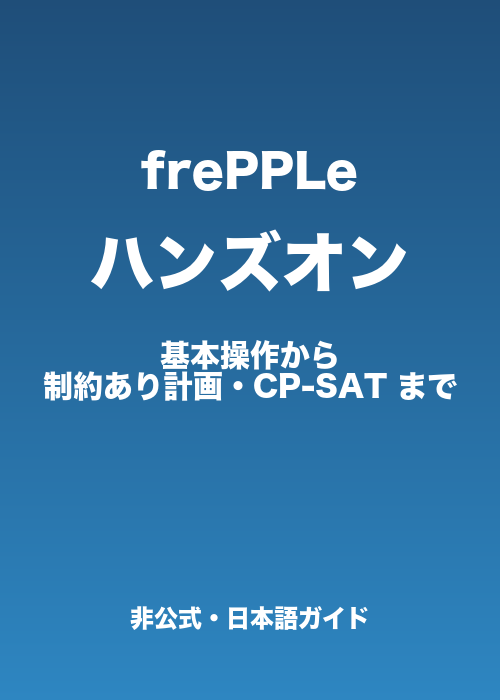
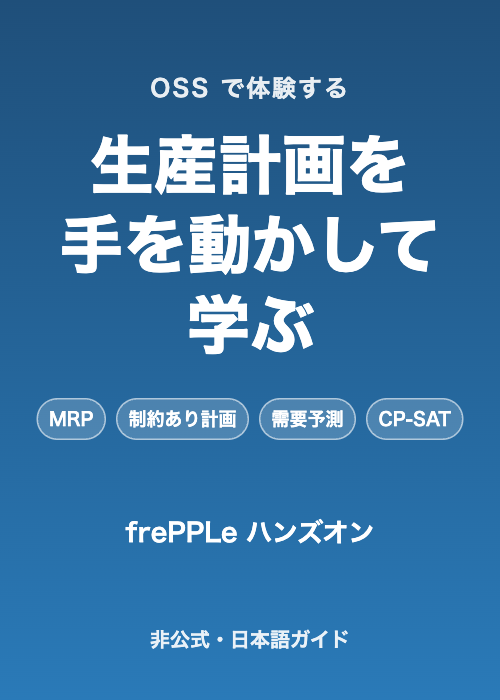
improve discoverability: retitle book, new cover, intro summary box, small chapter fixes
- config.yaml: lead title/summary with the problem domain, update topics
- cover.png: new cover matching the title
- 01: add a 3-line summary box
- 05: align diagram with table, replace dangling 4-chapter reference
- 07: point to the ch6 result instead of stale prediction
- 08: normalize parentheses to full-width
- 15: drop unused glossary term

diff --git a/books/frepple-tutorial-ja/05-build-model.md b/books/frepple-tutorial-ja/05-build-model.md
@@ -20,8 +20,8 @@ title: "最小のモデルを一から作る"
 
 ```mermaid
 flowchart LR
-  S1[供給者] -->|購買 3日| P[板 plank]
-  S2[供給者] -->|購買 1日| W[ねじ screw]
+  S[供給者 lumber shop] -->|購買 3日| P[板 plank]
+  S -->|購買 1日| W[ねじ screw]
   P -->|1枚| A[作業台で組み立て<br>1個 / 1時間]
   W -->|4本| A
   A --> T[テーブル table]
@@ -50,7 +50,7 @@ flowchart LR
 
 ## データを登録する
 
-登録の順番が大切です。**「参照される側」から先に** 登録します。メニューは、依存するデータがあるときにだけ現れる仕組みです（4 章の注意点）。
+登録の順番が大切です。**「参照される側」から先に** 登録します。メニューは、依存するデータがあるときにだけ現れる仕組みです（たとえば、販売オーダーのメニューは、商品・地域・顧客がそろうまで出ません）。
 
 :::message
 データ入力は、一覧画面のグリッド（表）で行を追加するか、Excel/CSV のインポートで一括して行えます。作業（operation）の所要時間は、`時:分:秒` の形式で入力します。1 時間は `01:00:00`、3 日は `3 00:00:00`（日と時刻の間は半角スペース）です。入力欄に書式の制約はないので注意してください。`1` は 1 秒、`1:00` は 1 分として登録されます。単位付きの `1h` や `1時間` は読み取れません。保存後に `01:00:00` のように整形して表示されるので、その表示で確認します。

diff --git a/books/frepple-tutorial-ja/01-intro.md b/books/frepple-tutorial-ja/01-intro.md
@@ -2,6 +2,14 @@
 title: "はじめに"
 ---
 
+:::message
+**3 行で分かる、この本**
+
+- **誰向け**: 生産管理・購買・SCM の仕事に就いた（就く予定の）人、生産計画や最適化に興味のある学生・エンジニア。frePPLe も業務知識も知らなくて構いません。
+- **読むと**: 受注から購買・製造・配送の計画がどう作られるか、受注が遅れた理由とボトルネックをどうたどるかを、自分で動かして説明できるようになります。
+- **必要なもの**: 3 章まではブラウザだけ。4 章以降は Docker（Compose）。14 章だけ Python 3.9 以上。
+:::
+
 この本は、**生産計画の基礎を、実際にソフトウェアを動かして学ぶ** ためのハンズオンです。題材には、オープンソースの生産計画ソフトウェア **frePPLe**（Community Edition）を使います。
 
 生産計画や SCM（サプライチェーン・マネジメント。原材料の調達から顧客への納品までの流れを管理すること）の入門書を読むと、MRP（所要量計算）、有限能力、リードタイム制約、ボトルネックといった言葉が出てきます。ただ、これらは本を読むだけでは実感しにくいものです。この本では、Docker で frePPLe を手元に立ち上げ、自分でデータを入れ、計画を作り、結果を読みながら、その考え方を確かめていきます。

diff --git a/books/frepple-tutorial-ja/07-constrained-plan.md b/books/frepple-tutorial-ja/07-constrained-plan.md
@@ -45,7 +45,7 @@ Web API なら、次のとおりです。
 
 ## 制約なし計画との比較
 
-5 章の終わりの予想と見比べてください。以下は、手元の環境で実測した値です。計画基準日は「計画を実行した日時」なので、日付は実行する日で変わり、遅れの日数や件数も、実行した時刻によって 1 日・1 件ほどずれます。
+6 章の制約なし計画の結果と見比べてください。以下は、手元の環境で実測した値です。計画基準日は「計画を実行した日時」なので、日付は実行する日で変わり、遅れの日数や件数も、実行した時刻によって 1 日・1 件ほどずれます。
 
 | 見るところ | 制約なし計画 | 制約あり計画 |
 |---|---|---|

diff --git a/books/frepple-tutorial-ja/15-glossary.md b/books/frepple-tutorial-ja/15-glossary.md
@@ -65,7 +65,6 @@ title: "用語集"
 | 条件レポート（constraint report） | 受注が遅れた・不足した理由を、制約の種類別に示すレポート |
 | ボトルネック | 全体の進み方を決めている、もっとも余裕のない資源。条件レポートで overload が集中するリソースがその候補です |
 | 負荷率（utilization） | 使用可能な能力に対する、実際の使用量の割合。100% を超えると能力オーバーです |
-| フェンス（fence） | 計画基準日から先の一定期間。この間は新しい補充を提案しないための「凍結期間」です |
 
 ## 比較と最適化
 
